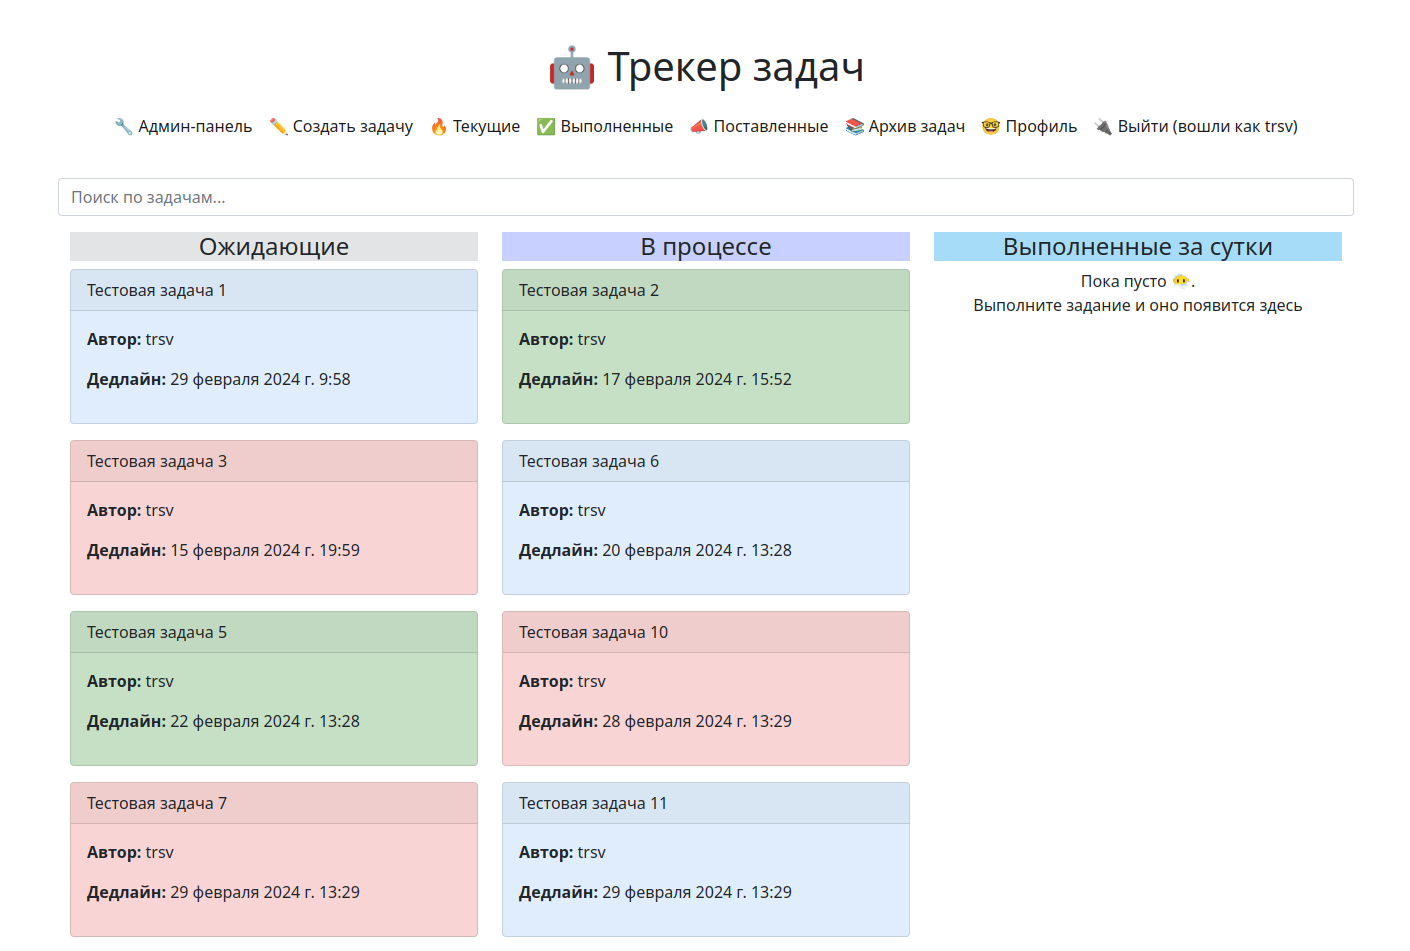
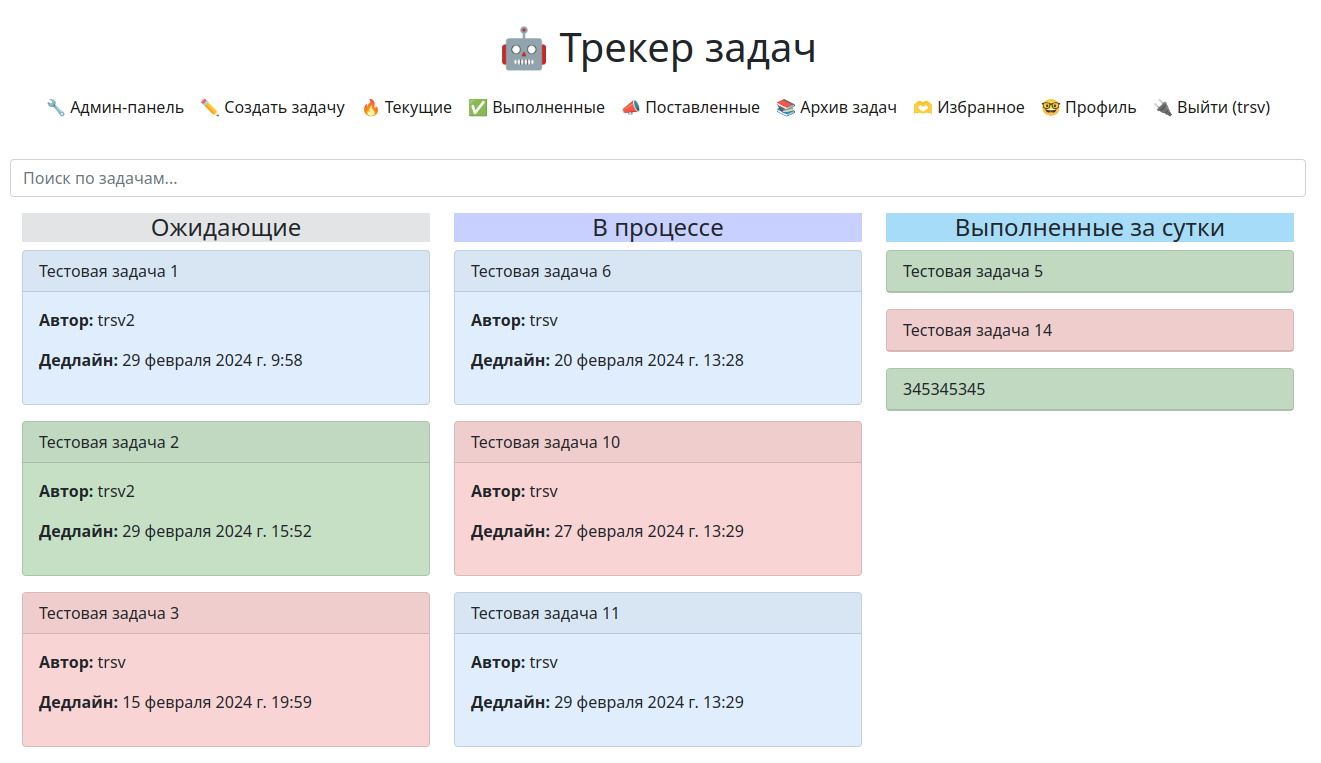
Added ability to add tasks in favorites and delete from favorites. Code refactoring.

diff --git a/backend/templates/tasks/task_detail.html b/backend/templates/tasks/task_detail.html
@@ -19,33 +19,40 @@
 {#        </p>#}
 
         <div class="collapse" id="collapseTaskActions">
-
-          {% if user.is_authenticated and task.is_done == False %}
-            {% if user.is_staff or user == task.author or user == task.assigned_to %}
-                {#    Кнопка удаления вынесена в отдельный блок чтобы явно указать метод POST, который требуется в @require_POST #}
-                {% if user == task.author %}
-                    <form method="post" action="{% url 'tracker:delete' pk=task.id %}" style="display:inline;">
-                        {% csrf_token %}
-                        <button type="submit" class="btn btn-outline-danger btn-sm">Удалить</button>
-                    </form>
-                    <a href="{% url 'tracker:edit' pk=task.id %}" class="btn btn-outline-primary btn-sm">Редактировать</a>
+              {% if user.is_authenticated and user != task.author %}
+                  {% if not is_favorited %}
+                    <a href="{% url 'favorites:add_to_favorites' pk=task.id %}" class="btn btn-outline-danger btn-sm"> ❤ В избранное</a>
+                  {% endif %}
+                  {% if is_favorited %}
+                    <a href="{% url 'favorites:delete_from_favorites' pk=task.id %}" class="btn btn-outline-danger btn-sm"> 💔 Из избранного</a>
+                  {% endif %}
+              {% endif %}
+              {% if user.is_authenticated and task.is_done == False %}
+                {% if user.is_staff or user == task.author or user == task.assigned_to %}
+                    {#    Кнопка удаления вынесена в отдельный блок чтобы явно указать метод POST, который требуется в @require_POST #}
+                    {% if user == task.author %}
+                        <form method="post" action="{% url 'tracker:delete' pk=task.id %}" style="display:inline;">
+                            {% csrf_token %}
+                            <button type="submit" class="btn btn-outline-danger btn-sm">Удалить</button>
+                        </form>
+                        <a href="{% url 'tracker:edit' pk=task.id %}" class="btn btn-outline-primary btn-sm">Редактировать</a>
+                    {% endif %}
+                    {% if user == task.assigned_to %}
+                        <a href="{% url 'tracker:mark_as_done' pk=task.id %}" class="btn btn-outline-success btn-sm">Выполнено</a>
+                    {% endif %}
+                    {% if user == task.assigned_to and task.status == 'Ожидает выполнения' %}
+                        <a href="{% url 'tracker:change_task_status' pk=task.id %}" class="btn btn-outline-secondary btn-sm">Взять в работу</a>
+                    {% endif %}
+                    {% if user == task.assigned_to and task.status != 'Ожидает выполнения' %}
+                        <a href="{% url 'tracker:change_task_status' pk=task.id %}" class="btn btn-outline-secondary btn-sm">Вернуть в ожидающие</a>
+                    {% endif %}
                 {% endif %}
-                {% if user == task.assigned_to %}
-                    <a href="{% url 'tracker:mark_as_done' pk=task.id %}" class="btn btn-outline-success btn-sm">Выполнено</a>
-                {% endif %}
-                {% if user == task.assigned_to and task.status == 'Ожидает выполнения' %}
-                    <a href="{% url 'tracker:change_task_status' pk=task.id %}" class="btn btn-outline-secondary btn-sm">Взять в работу</a>
-                {% endif %}
-                {% if user == task.assigned_to and task.status != 'Ожидает выполнения' %}
-                    <a href="{% url 'tracker:change_task_status' pk=task.id %}" class="btn btn-outline-secondary btn-sm">Вернуть в ожидающие</a>
-                {% endif %}
-            {% endif %}
-          {% elif user == task.assigned_to %}
-              <form method="post" action="{% url 'tracker:mark_as_undone' pk=task.id %}" style="display:inline;">
-                  {% csrf_token %}
-                  <button type="submit" class="btn btn-outline-dark btn-sm" style="margin-left: auto;">Отмена выполнения</button>
-              </form>
-          {% endif %}
+              {% elif user == task.assigned_to %}
+                  <form method="post" action="{% url 'tracker:mark_as_undone' pk=task.id %}" style="display:inline;">
+                      {% csrf_token %}
+                      <button type="submit" class="btn btn-outline-dark btn-sm" style="margin-left: auto;">Отмена выполнения</button>
+                  </form>
+              {% endif %}
             <a href="{% url 'tracker:index'%}" class="btn btn-outline-dark btn-sm">Назад</a>
         </div>
     </div>

diff --git a/backend/templates/tasks/profile.html b/backend/templates/tasks/profile.html
@@ -4,16 +4,25 @@
 <title>Профиль пользователя {{ user_profile }}</title>
 
 {% block content %}
-  <div class="container mt-4">
-    <section class="user-profile text-center">
-        <p>Профиль пользователя <strong> {{ user_profile }} </strong></p>
-        <p>Имя:<strong> {{ user_profile.first_name }} </strong></p>
-        <p>Фамилия:<strong> {{ user_profile.last_name }} </strong></p>
-        <p>Почта:<strong> {{ user_profile.email }} </strong></p>
-        <p>Дата регистрации:<strong> {{ user_profile.date_joined }} </strong></p>
-        <a class="btn btn-outline-danger my-4" href="{% url 'password_change' %}">Сменить пароль?</a>
-    </section>
-  </div>
+
+    {% if user.is_authenticated %}
+          <div class="container mt-4">
+            <section class="user-profile text-center">
+                <p>Профиль пользователя <strong> {{ user_profile }} </strong></p>
+                <p>Имя:<strong> {{ user_profile.first_name }} </strong></p>
+                <p>Фамилия:<strong> {{ user_profile.last_name }} </strong></p>
+                <p>Почта:<strong> {{ user_profile.email }} </strong></p>
+                <p>Дата регистрации:<strong> {{ user_profile.date_joined }} </strong></p>
+                {% if user == user_profile %}
+                    <a class="btn btn-outline-danger my-4" href="{% url 'password_change' %}">Сменить пароль?</a>
+                {% endif %}
+            </section>
+          </div>
+    {% else %}
+        <div class="text-center">
+            <p>Для просмотра профилей пользователей необходимо войти или зарегистрироваться</p>
+        </div>
+    {% endif %}
 {% endblock %}
 
 {% include 'includes/footer.html' %}

diff --git a/backend/templates/favorites/favorites.html b/backend/templates/favorites/favorites.html
@@ -1,0 +1,41 @@
+{% extends 'base.html' %}
+{% load tracker_tags %}
+
+{% block title %}Избранное пользователя {{ username }}{% endblock %}
+
+{% block content %}
+  <div class="container mt-4">
+    <section class="user-profile text-center">
+        <p>Избранное пользователя <b>{{ username }}</b></p>
+    </section>
+
+      <!-- Верхняя пагинация -->
+    {% if page_obj.has_next or page_obj.has_previous %}
+      {% include 'includes/paginator.html' %}
+    {% endif %}
+    <br>
+
+    <section class="task-list">
+      {% if tasks_by_date %}
+          {% for date, favorite_item in tasks_by_date.items %}
+            <br><div class="text-center mb-2"><b>{{ date }}</b></div><br>
+
+            {% for task_item in favorite_item %}
+              {% with task=task_item.task %}
+                {% include 'includes/task_flat_card.html' %}
+              {% endwith %}
+            {% endfor %}
+          {% endfor %}
+      {% else %}
+        <div class="text-center">
+            У вас пока нет избранных задач 😵
+        </div>
+      {% endif %}
+    </section>
+
+<!-- Нижняя пагинация -->
+{% if page_obj.has_next or page_obj.has_previous %}
+  {% include 'includes/paginator.html' %}
+{% endif %}
+
+{% endblock %}

diff --git a/backend/templates/includes/header.html b/backend/templates/includes/header.html
@@ -41,8 +41,9 @@
                               <a class="nav-item nav-link active" href="{% url 'tracker:user_archive' user=user%}">✅ Выполненные</a>
                               <a class="nav-item nav-link active" href="{% url 'tracker:delegated_tasks' user=user%}">📣 Поставленные</a>
                               <a class="nav-item nav-link active" href="{% url 'tracker:full_archive'%}">📚 Архив задач</a>
+                              <a class="nav-item nav-link active" href="{% url 'favorites:favorites' user=user %}">🫶 Избранное</a>
                               <a class="nav-item nav-link active" href="{% url 'tracker:profile' user=user%}">🤓 Профиль</a>
-                              <a class="nav-item nav-link active" href="{% url 'users:logout' %}">🔌 Выйти (вошли как {{ user.username }})</a>
+                              <a class="nav-item nav-link active" href="{% url 'users:logout' %}">🔌 Выйти ({{ user.username }})</a>
                             {% else %}
                                 <a class="nav-item nav-link active" href="{% url 'users:login' %}">Войти</a>
                                 <a class="nav-item nav-link active"> 🧐 </a>

diff --git a/backend/favorites/views.py b/backend/favorites/views.py
@@ -1,0 +1,69 @@
+from django.conf import settings
+from django.core.paginator import Paginator
+from django.shortcuts import render, get_object_or_404, redirect
+
+from favorites.models import Favorites
+from tracker.models import Task, User
+from tracker.views import get_current_dates, get_tasks_by_date
+
+
+def add_to_favorites(request, pk):
+    """Добавление задачи в избранное."""
+
+    user = request.user
+    task = get_object_or_404(Task, pk=pk)
+
+    if not user.is_authenticated:
+        return redirect('users:login')
+
+    if user is not task.author:
+        Favorites.objects.create(task=task, user=user)
+        return redirect('tracker:detail', pk=task.pk)
+
+
+def delete_from_favorites(request, pk):
+    """Удаление задачи из избранного."""
+
+    task = get_object_or_404(Task, pk=pk)
+    user = request.user
+
+    if not user.is_authenticated:
+        return redirect('users:login')
+
+    favorited_task = Favorites.objects.filter(task=task)
+    favorited_task.delete()
+
+    return redirect('tracker:detail', pk=task.pk)
+
+
+def get_favorites(request, user):
+    """Отображение избранного."""
+
+    username = get_object_or_404(User, username=user)
+    user_favorites = Favorites.objects.filter(
+        user=username
+    ).select_related('task__author')
+
+    dates = user_favorites.order_by(
+        'added_time__date'
+    ).values('added_time__date').distinct()
+
+    items_in_page = settings.DAYS_IN_CALENDAR_PAGE
+    page_number = int(request.GET.get('page', 1))
+    current_dates = get_current_dates(dates, page_number, items_in_page)
+
+    tasks_by_date = get_tasks_by_date(
+        user_favorites, current_dates,
+        'added_time__date', 'added_time'
+    )
+
+    paginator = Paginator(dates, items_in_page)
+    page_obj = paginator.get_page(page_number)
+
+    context = {
+        'username': username,
+        'tasks_by_date': tasks_by_date,
+        'page_obj': page_obj,
+    }
+
+    return render(request, 'favorites/favorites.html', context)

diff --git a/backend/tracker/utils.py b/backend/tracker/utils.py
@@ -233,11 +233,15 @@ def get_all_usernames_list():
 
 
 def get_common_context(request, task, comments):
+    user = request.user
     comment_form = CommentForm(request.POST or None)
     comment_texts = [comment.text for comment in comments]
     comments_with_expired_editing_time = []
     images_in_task = task.images.all()
-
+    # Если пользователь аутентифицирован, то показываем кнопку добавления
+    # в избранное
+    if user.is_authenticated:
+        is_favorited = bool(user.favorites.filter(task=task))
     images_in_comments = [comment.images.all() for comment in comments]
 
     highlighted_comment_id = int(request.GET.get('highlighted_comment_id', 0))
@@ -256,7 +260,7 @@ def get_common_context(request, task, comments):
         username: get_profile(username) for username in list_of_mentioned_users
     }
 
-    return {
+    context = {
         'comment_form': comment_form,
         'task': task,
         'comments': comments,
@@ -267,3 +271,11 @@ def get_common_context(request, task, comments):
         'images_in_comments': images_in_comments,
         'highlighted_comment_id': highlighted_comment_id
     }
+
+    if not user.is_authenticated:
+        return context
+
+    # Если пользователь аутентифицирован, то показываем кнопку добавления
+    # в избранное
+    context['is_favorited'] = is_favorited
+    return context

diff --git a/backend/favorites/models.py b/backend/favorites/models.py
@@ -1,0 +1,40 @@
+from django.db import models
+
+from tracker.models import Task, User
+
+
+class Favorites(models.Model):
+    """Модель избранного. """
+
+    task = models.ForeignKey(
+        Task,
+        on_delete=models.CASCADE,
+        verbose_name='Избранное',
+        help_text='Выберите задачу'
+    )
+    user = models.ForeignKey(
+        User,
+        on_delete=models.CASCADE,
+        related_name='favorites',
+        verbose_name='Пользователь',
+        help_text='Выберите пользователя'
+    )
+    added_time = models.DateTimeField(
+        auto_now_add=True,
+        verbose_name='Время добавления в избранное'
+    )
+
+    class Meta:
+        ordering = ('-added_time',)
+        verbose_name = 'Избранное'
+        verbose_name_plural = 'Избранное'
+        constraints = (
+            models.UniqueConstraint(
+                fields=('user', 'task'),
+                name='unique_user_task_favorites'
+            ),
+        )
+
+    def __str__(self):
+        return (f'{self.user} добавил в избранное задачу '
+                f'"{self.task.title[:30]}"')

diff --git a/backend/tracker/views.py b/backend/tracker/views.py
@@ -208,9 +208,9 @@ def index(request):
     # pending = tasks.filter(status='Ожидает выполнения')
     # in_progress = tasks.filter(status='В процессе выполнения')
 
-    # Уменьшаем на 2 кол-во запросов к БД
+    # Уменьшаем на 1 кол-во запросов к БД
     tasks = tasks.filter(
-        status__in=['Ожидает выполнения', 'В процессе выполнения']
+        status__in=['Ожидает выполнения', 'В процессе выполнения', 'Выполнено']
     )
     pending = [task for task in tasks if task.status == 'Ожидает выполнения']
     in_progress = [
@@ -433,7 +433,8 @@ def full_archive_by_dates(request):
 
 
 def task_detail(request, pk):
-    task = get_object_or_404(Task.objects.select_related('author', 'assigned_to', 'done_by'), pk=pk)
+    task = get_object_or_404(
+        Task.objects.select_related('author', 'assigned_to', 'done_by'), pk=pk)
     comments = task.comments.select_related('author').prefetch_related('images')
 
     context = get_common_context(request, task, comments)

diff --git a/backend/favorites/urls.py b/backend/favorites/urls.py
@@ -1,0 +1,23 @@
+from django.urls import path
+
+from favorites import views
+
+app_name = 'favorites'
+
+urlpatterns = [
+    path(
+        'add_to_favorites/<int:pk>/',
+        views.add_to_favorites,
+        name='add_to_favorites'
+    ),
+    path(
+        'delete_from_favorites/<int:pk>/',
+        views.delete_from_favorites,
+        name='delete_from_favorites'
+    ),
+    path(
+        '<str:user>/',
+        views.get_favorites,
+        name='favorites'
+    )
+]

diff --git a/backend/favorites/admin.py b/backend/favorites/admin.py
@@ -1,0 +1,10 @@
+from django.contrib import admin
+
+from favorites.models import Favorites
+
+
+@admin.register(Favorites)
+class FavoritesAdmin(admin.ModelAdmin):
+    list_display = ('task', 'user', 'added_time')
+    ordering = ('-added_time',)
+    search_fields = ('task__title', 'user__username')

diff --git a/backend/task_tracker/urls.py b/backend/task_tracker/urls.py
@@ -10,6 +10,7 @@ urlpatterns = [
     path('auth/', include('users.urls')),
     path('auth/', include('django.contrib.auth.urls')),
     path('comments/', include('comments.urls')),
+    path('favorites/', include('favorites.urls')),
 ]
 
 if settings.DEBUG:

diff --git a/backend/favorites/apps.py b/backend/favorites/apps.py
@@ -1,0 +1,7 @@
+from django.apps import AppConfig
+
+
+class FavoritesConfig(AppConfig):
+    default_auto_field = 'django.db.models.BigAutoField'
+    name = 'favorites'
+    verbose_name = 'Избранное'
